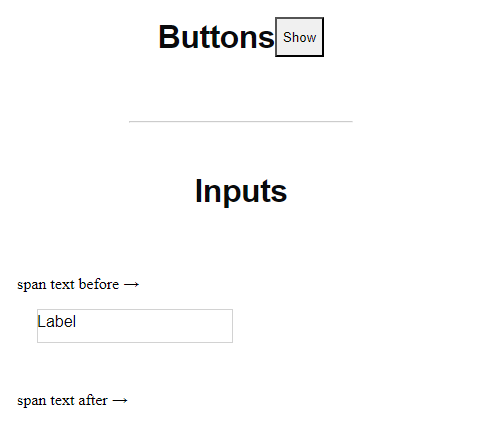
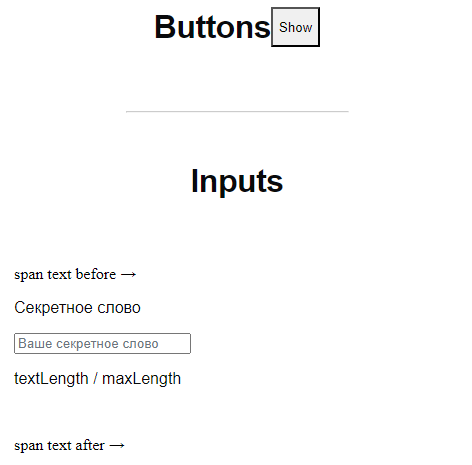
feat: implements MibInput directive

diff --git a/src/app/shared/ui-kit/input/directives/metib-input.directive.ts b/src/app/shared/ui-kit/input/directives/metib-input.directive.ts
@@ -1,16 +1,31 @@
-import { Directive, ElementRef, HostBinding, Input } from '@angular/core'
+import {
+	ChangeDetectorRef,
+	Directive,
+	ElementRef,
+	HostBinding,
+	HostListener,
+	Input,
+	Optional
+} from '@angular/core'
 import {
 	InputCustom,
 	InputSize,
 	InputStatus,
 	InputType
 } from '../interfaces/input.interface'
+import { AbstractControl, NgControl, Validators } from '@angular/forms'
+import { Subscription, tap } from 'rxjs'
 
 @Directive({
-	selector: '[mibInputDirective]'
+	selector: '[MibInput]'
 })
 export class MetibInputDirective {
-	constructor(public el: ElementRef<HTMLInputElement>) {}
+	constructor(
+		public el: ElementRef<HTMLInputElement>,
+		@Optional() private ngControl: NgControl,
+		private cdr: ChangeDetectorRef,
+		public elementRef: ElementRef<HTMLElement>
+	) {}
 
 	@Input() disabled: boolean = false
 	@Input() controls: boolean = true
@@ -34,5 +49,80 @@ export class MetibInputDirective {
 		return classes.join(' ')
 	}
 
+	@HostBinding(`placeholder`)
+	get getPlaceholder() {
+		return this.control?.hasValidator(Validators.required)
+			? this.placeholder + this.placeholderSuffix
+			: this.placeholder
+	}
+
+	@HostBinding('custom')
+	get getCustom() {
+		return this.custom
+	}
+
+	@HostListener('blur', ['$event'])
+	public onBlurEv() {
+		this.touches += 1
+		this.touched = true
+		this.updateStatus()
+	}
+
+	get isTextarea() {
+		return this.elementRef.nativeElement.tagName === 'TEXTAREA'
+	}
+
+	private subscriptions: Subscription[] = []
+
 	public statusState: InputStatus = 'default'
+	public control?: AbstractControl | null = null
+	public dirty: boolean = false
+	public touches: number = 0
+	public touched: boolean = false
+	public value: string = ''
+
+	ngAfterViewInit() {
+		this.control = this.ngControl?.control
+		this.touches += this.control?.touched ? 1 : 0
+		this.updateStatus()
+		if (this.control) {
+			this.subscriptions.push(
+				this.control.valueChanges.subscribe(() => {
+					this.dirty = this.control!.dirty
+					this.touches++
+					this.touched = true
+				})
+			)
+			this.subscriptions.push(
+				this.control.statusChanges
+					.pipe(
+						tap(status => {
+							this.updateStatus()
+						})
+					)
+					.subscribe()
+			)
+		}
+		this.cdr.detectChanges()
+	}
+
+	ngOnDestroy() {
+		this.subscriptions.forEach(sub => sub.unsubscribe())
+	}
+
+	public updateStatus(): void {
+		if (this.disabled) {
+			this.statusState = 'disabled'
+		} else if (this.control?.invalid && this.touches > 0) {
+			this.statusState = 'error'
+		} else if (this.control?.valid && this.touches > 0) {
+			this.statusState = 'active'
+		} else if (this.control?.value?.length > 0) {
+			this.statusState = 'filled'
+		} else {
+			this.statusState = 'default'
+		}
+		if (this.status) this.statusState = this.status
+		this.cdr.detectChanges()
+	}
 }

diff --git a/src/app/shared/ui-kit/input/input.component.scss b/src/app/shared/ui-kit/input/input.component.scss
@@ -3,38 +3,37 @@
 	min-width: 72px;
 }
 
-.box-wrapper {
-	width: 100%;
-	position: relative;
-	padding: 16px 20px;
-	& input {
-		font-family: inherit;
-		width: 100%;
-		border: 1px solid #d2d2d2;
-		outline: 0;
-		font-size: 16px;
-		color: #212121;
-		padding: 7px 0;
-		background: transparent;
-		transition: border-color 0.2s;
-	}
-	& input::placeholder {
-		color: transparent;
-	}
-	& .box-label p {
-		position: absolute;
-		top: 20px;
-		font-size: 16px;
-		cursor: text;
-	}
-	&:has(input:placeholder-shown) .box-label p {
-		border: 4px solid red;
-	}
-	&:has(input:focus) .box-label p {
-		display: block;
-		transition: 0.2s;
-		font-size: 12px;
-		color: #9b9b9b;
-		border: 1px solid #2d9143;
-	}
-}
+// .box-wrapper {
+// 	width: 100%;
+// 	position: relative;
+// 	& input {
+// 		font-family: inherit;
+// 		width: 100%;
+// 		border: 1px solid #d2d2d2;
+// 		outline: 0;
+// 		font-size: 16px;
+// 		color: #212121;
+// 		padding: 7px 0;
+// 		background: transparent;
+// 		transition: border-color 0.2s;
+// 	}
+// 	& input::placeholder {
+// 		color: transparent;
+// 	}
+// 	& .box-label p {
+// 		position: absolute;
+// 		top: 20px;
+// 		font-size: 16px;
+// 		cursor: text;
+// 	}
+// 	&:has(input:placeholder-shown) .box-label p {
+// 		border: 4px solid red;
+// 	}
+// 	&:has(input:focus) .box-label p {
+// 		display: block;
+// 		transition: 0.2s;
+// 		font-size: 12px;
+// 		color: #9b9b9b;
+// 		border: 1px solid #2d9143;
+// 	}
+// }

diff --git a/src/app/shared/modules/mib-ui/mib-ui.component.html b/src/app/shared/modules/mib-ui/mib-ui.component.html
@@ -273,8 +273,15 @@
 <div class="btn-wrapper flex-column gap-0">
 	<span>span text before →</span>
 	<mib-input>
-		<input mibInputDirective type="text" />
-		<ng-container input-label>Label</ng-container>
+		<input
+			MibInput
+			type="text"
+			formControlName="secretWord"
+			[size]="inputSize"
+			styleType="filled-secondary"
+			placeholder="Ваше секретное слово"
+		/>
+		<ng-container input-label>Секретное слово</ng-container>
 	</mib-input>
 	<span>span text after →</span>
 	<div class="spacer-10"></div>

diff --git a/src/app/shared/modules/mib-ui/mib-ui.component.ts b/src/app/shared/modules/mib-ui/mib-ui.component.ts
@@ -1,4 +1,5 @@
 import { Component } from '@angular/core'
+import { InputSize } from '../../ui-kit/input/interfaces/input.interface'
 
 @Component({
 	selector: 'app-mib-ui',
@@ -21,6 +22,7 @@ import { Component } from '@angular/core'
 })
 export class MibUiComponent {
 	isShown = false
+	public inputSize: InputSize = 'l'
 
 	login() {
 		console.log('halo click!')

diff --git a/src/app/shared/ui-kit/input/input.component.ts b/src/app/shared/ui-kit/input/input.component.ts
@@ -12,7 +12,6 @@ export class InputComponent {
 	inputDirective!: MetibInputDirective
 
 	focus() {
-		console.log('halo')
 		this.inputDirective.el.nativeElement.focus()
 	}
 }
